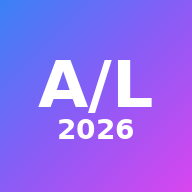
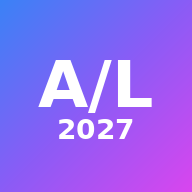
Add files via upload

Changed region(s): [[0.5938, 0.5938, 0.7188, 0.75]]

diff --git a/index.html b/index.html
@@ -5,8 +5,8 @@
 <meta name="theme-color" content="#3b82f6">
 <meta name="viewport" content="width=device-width, initial-scale=1, viewport-fit=cover, interactive-widget=resizes-content">
 <link rel="manifest" href="manifest.webmanifest"><link rel="icon" href="icon-192.png"><link rel="apple-touch-icon" href="icon-192.png">
-<meta name="mobile-web-app-capable" content="yes"><meta name="apple-mobile-web-app-capable" content="yes"><meta name="apple-mobile-web-app-status-bar-style" content="black-translucent"><meta name="apple-mobile-web-app-title" content="A/L 2026">
-<title>A/L 2026 Dashboard</title>
+<meta name="mobile-web-app-capable" content="yes"><meta name="apple-mobile-web-app-capable" content="yes"><meta name="apple-mobile-web-app-status-bar-style" content="black-translucent"><meta name="apple-mobile-web-app-title" content="A/L 2027">
+<title>A/L 2027 Dashboard</title>
 <link href="https://fonts.googleapis.com/css2?family=Sora:wght@500;700;800&family=Inter:wght@400;500;600&family=Noto+Sans+Sinhala:wght@400;600&display=swap" rel="stylesheet">
 <script src="https://cdnjs.cloudflare.com/ajax/libs/Chart.js/4.4.1/chart.umd.min.js"></script>
 <script src="https://cdnjs.cloudflare.com/ajax/libs/html2canvas/1.4.1/html2canvas.min.js"></script>
@@ -176,10 +176,10 @@ section.fa>.g>.card:nth-child(even){animation-delay:-3.5s}
 *{-webkit-tap-highlight-color:transparent}html,body{overscroll-behavior-y:none}
 button,.pill,.tab,.tile,.item,.d{touch-action:manipulation;-webkit-user-select:none;user-select:none}
 body{padding-top:calc(var(--th) + env(safe-area-inset-top,0px));padding-bottom:calc(var(--bh) + 28px + env(safe-area-inset-bottom,0px))}
-body::after,nav,footer,.fl{display:none!important}
+body::after,nav,footer{display:none!important}
 body>section{display:none;padding:14px 14px 10px!important}body>section#hero{padding-top:10px!important}
 body>section.cur{display:block;animation:scr .28s both}@keyframes scr{from{opacity:0;transform:translateY(10px)}}
-.rv{opacity:1!important;transform:none!important}section.fa>.card,section.fa>.g>.card{animation:none!important}
+.rv{opacity:1!important;transform:none!important}section.fa>.card,section.fa>.g>.card{animation:none}
 @media(hover:none){.card:hover,.pill:hover,.tab:hover,.ghost:hover,.btn:hover{transform:none}}
 .btn:active,.ghost:active,.tab:active,.tile:active,.item:active,.d:active{transform:scale(.95)}
 #ab{position:fixed;top:0;left:0;right:0;z-index:40;display:flex;align-items:center;gap:8px;padding:calc(8px + env(safe-area-inset-top,0px)) 14px 8px;background:color-mix(in srgb,var(--bg) 80%,transparent);backdrop-filter:blur(18px);-webkit-backdrop-filter:blur(18px);border-bottom:1px solid var(--line)}
@@ -195,10 +195,37 @@ body>section.cur{display:block;animation:scr .28s both}@keyframes scr{from{opaci
 @keyframes up{from{transform:translateY(100%)}}.sh .gr{display:block;width:44px;height:5px;border-radius:9px;background:var(--line);margin:0 auto 14px}.sh h3{margin:4px 0 12px}
 #toast{bottom:calc(var(--bh) + 28px + env(safe-area-inset-bottom,0px))}
 .chat{height:calc(100dvh - 250px - env(safe-area-inset-top,0px) - env(safe-area-inset-bottom,0px));min-height:360px}
+
+/* ===== v2: compact + animations + palette ===== */
+.card{padding:14px;border-radius:20px}.sb{padding:10px 6px}.val{font-size:1.25rem}.lbl{font-size:.62rem}.ch{height:170px}
+.fr{width:180px;height:180px}.fr>div{width:150px;height:150px}
+.g3{grid-template-columns:repeat(3,1fr)!important;gap:8px}#hero .fc{padding:10px 4px}#hero .fc .em{font-size:1.4rem}#hero .fc .val{font-size:1.1rem}#hero .fc .lbl{font-size:.55rem}
+.cd{gap:8px;margin:14px 0 6px}.cd div{flex:1;min-width:0;padding:8px 4px}.cd b{font-size:1.25rem}
+.ph{width:min(180px,48vw)}.hp{padding:8px}.o{width:38px;height:38px;font-size:1.1rem;border-radius:12px}
+.hin{gap:12px}#hero h1{font-size:clamp(1.8rem,8.5vw,2.6rem)}.typ{margin:8px 0 14px}h2{font-size:1.4rem}.sub{margin:4px 0 14px;font-size:.9rem}
+.im{width:66px;height:66px;font-size:2.1rem}.tgs{grid-template-columns:repeat(auto-fill,minmax(150px,1fr))}
+.sk{width:56px!important;height:56px!important;font-size:1.9rem!important}.dc{padding:12px 8px}.tile{padding:10px 4px}
+textarea{width:100%;background:var(--inp);color:var(--text);border:1px solid var(--line);border-radius:12px;padding:11px 12px;font:inherit;font-size:16px;resize:vertical;margin-bottom:10px}
+input[type=color]{height:38px;border:1px solid var(--line);border-radius:10px;background:var(--inp);padding:2px;width:56px}
+.dn b{text-decoration:line-through;color:var(--mute)}.nt [contenteditable]{outline:none}.nt .q{margin-top:4px}
+#picB{position:absolute;right:2%;bottom:2%;z-index:4;width:42px;height:42px;background:var(--card)}
+.pw{display:flex;flex-wrap:wrap;gap:8px}.pal{width:44px;height:44px;border-radius:50%;border:3px solid transparent;cursor:pointer;padding:0}.pal.on{border-color:var(--text)}
+.gb{width:42px;height:42px;border-radius:12px;border:1px solid var(--line);background:var(--card);color:var(--text);font:700 .8rem Sora;cursor:pointer;padding:0}.gb.on{border-color:var(--blue);box-shadow:0 0 0 2px var(--blue)}
+body::before{inset:-15%;animation:aur 22s ease-in-out infinite alternate}@keyframes aur{to{transform:translate(6%,4%) rotate(8deg) scale(1.1)}}
+#bgfx{position:fixed;inset:0;overflow:hidden;pointer-events:none;z-index:-1}
+#bgfx span{position:absolute;bottom:-80px;font-size:var(--s);opacity:0;animation:bgf var(--d) linear infinite;animation-delay:var(--dl)}
+#bgfx span:empty{width:calc(var(--s)*16);height:calc(var(--s)*16);border-radius:50%;background:radial-gradient(circle at 30% 30%,var(--oc,var(--pink)),transparent 70%)}
+#bgfx span:nth-child(3n+1):empty{--oc:var(--blue)}#bgfx span:nth-child(3n+2):empty{--oc:var(--orange)}
+@keyframes bgf{0%{transform:translate(0,0) rotate(0);opacity:0}10%,90%{opacity:.4}100%{transform:translate(var(--dx),-115vh) rotate(40deg);opacity:0}}
+.ent{animation:cin .5s cubic-bezier(.2,.8,.2,1) calc(var(--n,0)*55ms) both!important}@keyframes cin{from{opacity:0;transform:translateY(22px) scale(.97)}}
+.btn{position:relative;overflow:hidden}.btn::after{content:"";position:absolute;inset:0;background:linear-gradient(105deg,transparent 40%,rgba(255,255,255,.35) 50%,transparent 60%);transform:translateX(-120%);animation:shn 3.5s ease-in-out infinite}@keyframes shn{60%,100%{transform:translateX(120%)}}
+#bn button.on i{animation:bnb .5s}@keyframes bnb{40%{transform:translateY(-8px) scale(1.25)}}
+.bf{position:fixed;pointer-events:none;z-index:99;font-size:1.2rem;animation:cf 1s ease-out forwards}
+body.noanim *,body.noanim *::before,body.noanim *::after{animation:none!important}body.noanim #bgfx,body.noanim .fl{display:none}
 </style>
 </head>
 <body>
-<nav><div class="logo">A/L<span>.2026</span></div><div class="pills" id="navl"></div><button class="pill" id="theme" aria-label="Switch theme">🌙</button></nav>
+<nav><div class="logo">A/L<span>.2027</span></div><div class="pills" id="navl"></div><button class="pill" id="theme" aria-label="Switch theme">🌙</button></nav>
 
 <section id="hero"><div class="blob b1"></div><div class="blob b2"></div><div class="blob b3"></div>
 <div class="hin"><div class="hl">
@@ -309,6 +336,10 @@ body>section.cur{display:block;animation:scr .28s both}@keyframes scr{from{opaci
 
 <section id="roadmap" class="rv"><h2>🧭 Roadmap to AI science</h2><p class="sub">Tap a stage to open it.</p><div class="tl" id="tl"></div></section>
 
+<section id="notes" class="rv"><h2>🗒 Notes & to-do</h2><p class="sub">Liyaganna one ewa methana liyanna. Offline wath wada karanawa.</p>
+<div class="card"><input type="text" id="ntT" placeholder="Title / task…" style="margin-bottom:10px"><textarea id="ntB" rows="3" placeholder="Details (optional)"></textarea>
+<div class="row r2"><select id="ntK"><option value="note">📝 Note</option><option value="todo">☑ To-do</option></select><select id="ntS"></select></div><button class="btn full" id="ntAdd">Add</button></div>
+<div class="row r2" style="margin:12px 0 8px"><input type="text" id="ntQ" placeholder="🔍 Search"><select id="ntF"></select></div><div id="ntL"></div></section>
 <section id="dream" class="rv"><h2>🌠 Dream board</h2><p class="sub">The life I'm building. Tap a dream when I've won it 🎉</p>
 <div class="card db" id="db"><div class="gl gla"></div><div class="gl glb"></div><div class="fx" id="fx"></div>
 <div class="hd"><span class="st1">✨</span><span class="mi">MIND IT!</span><span class="st2">💫</span></div><div class="dq" id="dq"></div>
@@ -319,7 +350,14 @@ body>section.cur{display:block;animation:scr .28s both}@keyframes scr{from{opaci
 <header id="ab"><h1><span id="abI">🏠</span><span id="abT">A/L.2026</span><span id="net" title="online"></span></h1><button class="ib" id="abA" aria-label="Study AI">🤖</button><button class="ib" id="abTh" aria-label="Theme">🌓</button><button class="ib" id="abS" aria-label="Settings">⚙</button></header>
 <div id="bn"><button data-go="hero"><i>🏠</i>Home</button><button data-go="study"><i>📚</i>Study</button><button data-go="discipline"><i>✅</i>Habits</button><button data-go="focus"><i>⏱</i>Focus</button><button id="bnMore"><i>☰</i>More</button></div>
 <div class="sh" id="moreSh"><div><span class="gr"></span><h3>All sections</h3><div class="tiles" id="moreG"></div></div></div>
-<div class="sh" id="setSh"><div><span class="gr"></span><h3>⚙ Settings</h3>
+<div class="sh" id="setSh"><div><span class="gr"></span><h3>⚙ Settings</h3><div class="sg" style="margin-top:0">🎨 Colour palette</div><div class="pw" id="palG"></div>
+<div class="li" style="margin-top:10px;align-items:center"><span class="lbl" style="margin:0">Custom</span><input type="color" id="pc1" value="#3b82f6"><input type="color" id="pc2" value="#d946ef"></div>
+<div class="sg">🖼 Home picture</div><button class="ghost sm" id="picS" style="width:100%">Change picture</button><input type="file" id="picF" accept="image/*" hidden>
+<div class="sg">📲 App icon</div><div class="li" style="align-items:center"><img id="icP" width="60" height="60" style="border-radius:16px" alt=""><div class="pw" id="icG" style="flex:1"></div></div>
+<p class="lbl" style="text-transform:none">Icon eka wenas wenne Home screen ekata aluthen Add karanakota witharai.</p>
+<div class="sg">✨ Animations</div><button class="ghost sm" id="anB" style="width:100%"></button>
+<div class="sg">🤖 Study AI</div>
+
 <label class="lbl">Gemini API key</label><input type="password" id="gKey" placeholder="Paste your key here" autocomplete="off">
 <label class="lbl" style="margin-top:10px">Model</label><input type="text" id="gModel" placeholder="gemini-flash-latest">
 <button class="btn full" id="gSave">Save AI settings</button>
@@ -686,14 +724,14 @@ $('#msF').onchange=msDraw;
 $('#msL').addEventListener('click',e=>{const b=e.target.closest('button');if(!b)return;if(b.dataset.md)mss=mss.filter(m=>m.id!==b.dataset.md);else if(b.dataset.mr){const m=mss.find(x=>x.id===b.dataset.mr);m.r=!m.r}else return;store.set('mist',mss);msDraw()});
 
 /* ===== NAVIGATION (scroll between sections) ===== */
-const NP=[['hero','🏠','Home','#06b6d4'],['study','📚','Study log','#10b981'],['marks','📈','Marks','#ec4899'],['discipline','✅','Habits','#22c55e'],['plan','🗓','90 days','#3b82f6'],['mist','🧠','Mistakes','#ef4444'],['planner','📅','Planner','#eab308'],['papers','📝','Papers','#8b5cf6'],['focus','⏱','Focus','#f97316'],['targets','🎯','Targets','#d946ef'],['ai','🤖','Study AI','#6366f1'],['roadmap','🧭','Roadmap','#14b8a6'],['dream','🌠','Dreams','#f59e0b']];
+const NP=[['hero','🏠','Home','#06b6d4'],['study','📚','Study log','#10b981'],['marks','📈','Marks','#ec4899'],['discipline','✅','Habits','#22c55e'],['plan','🗓','90 days','#3b82f6'],['mist','🧠','Mistakes','#ef4444'],['planner','📅','Planner','#eab308'],['notes','🗒','Notes','#f59e0b'],['papers','📝','Papers','#8b5cf6'],['focus','⏱','Focus','#f97316'],['targets','🎯','Targets','#d946ef'],['ai','🤖','Study AI','#6366f1'],['roadmap','🧭','Roadmap','#14b8a6'],['dream','🌠','Dreams','#f59e0b']];
 $('#navl').innerHTML=NP.map(x=>`<a class="pill" href="#${x[0]}" data-go="${x[0]}">${x[1]} ${x[2]}</a>`).join('');
 $('.hl').insertAdjacentHTML('beforeend','<div class="arena" id="arena"></div>');
 $('.hl').insertAdjacentHTML('beforeend','<div class="sg">🔥 Discipline</div><div class="card" id="dcCard"></div>');
 function go(id,push=true){const el=document.getElementById(id);if(!el||!el.matches('body>section'))return;
  document.querySelectorAll('body>section.cur').forEach(s=>s.classList.remove('cur'));el.classList.add('cur','v');window.scrollTo(0,0);mark(id);setBar(id);closeSheets();
  if(push&&!(history.state&&history.state.s===id))history.pushState({s:id},'');
- requestAnimationFrame(()=>Object.values(ch).forEach(c=>{try{c.resize()}catch(e){}}))}
+ stag(el);requestAnimationFrame(()=>Object.values(ch).forEach(c=>{try{c.resize()}catch(e){}}))}
 document.addEventListener('click',e=>{const g=e.target.closest('[data-go]'),a=e.target.closest('a[href^="#"]'),id=g?g.dataset.go:(a&&a.getAttribute('href').slice(1));if(id&&document.getElementById(id)){e.preventDefault();go(id)}});
 function mark(id){document.querySelectorAll('#navl .pill').forEach(b=>{const on=b.dataset.go===id;b.classList.toggle('on',on);if(on){const c=$('#navl');c.scrollTo({left:b.offsetLeft-c.clientWidth/2+b.offsetWidth/2,behavior:'smooth'})}})}
 const spy=new IntersectionObserver(es=>es.forEach(e=>{if(e.isIntersecting)mark(e.target.id)}),{rootMargin:'-40% 0px -55% 0px'});
@@ -740,7 +778,7 @@ document.querySelectorAll('.rv').forEach(el=>io.observe(el));
 const MAIN=['hero','study','discipline','focus'];
 function closeSheets(){document.querySelectorAll('.sh').forEach(s=>s.classList.remove('s'))}
 function openSh(id){closeSheets();$('#'+id).classList.add('s')}
-function setBar(id){const x=NP.find(n=>n[0]===id);$('#abT').textContent=id==='hero'?'A/L.2026':x[2];$('#abI').textContent=x[1];
+function setBar(id){const x=NP.find(n=>n[0]===id);$('#abT').textContent=id==='hero'?'A/L.2027':x[2];$('#abI').textContent=x[1];
  document.querySelectorAll('#bn button').forEach(b=>b.classList.toggle('on',b.dataset.go===id||(b.id==='bnMore'&&!MAIN.includes(id))))}
 $('#moreG').innerHTML=NP.filter(n=>!MAIN.includes(n[0])).map(n=>`<button class="tile" data-go="${n[0]}"><span class="ic" style="--c:${n[3]};width:50px;height:50px;font-size:1.6rem">${n[1]}</span>${n[2]}</button>`).join('');
 $('#bnMore').onclick=()=>openSh('moreSh');$('#abA').onclick=()=>go('ai');$('#abTh').onclick=()=>$('#theme').click();
@@ -755,6 +793,47 @@ const net=()=>$('#net').classList.toggle('off',!navigator.onLine);addEventListen
 let dip;addEventListener('beforeinstallprompt',e=>{e.preventDefault();dip=e;$('#inst').style.display='block'});$('#inst').onclick=()=>{dip&&dip.prompt()};
 addEventListener('popstate',e=>go((e.state&&e.state.s)||'hero',false));
 if('serviceWorker' in navigator&&location.protocol.startsWith('http'))navigator.serviceWorker.register('sw.js').catch(()=>{});
+
+/* ===== v2 JS ===== */
+function stag(el){el.querySelectorAll(':scope>.card,:scope>.g>.card,:scope>.tiles>*,:scope .tc,:scope .dw,:scope>#ntL>*').forEach((c,i)=>{c.style.setProperty('--n',Math.min(i,12));c.classList.remove('ent');void c.offsetWidth;c.classList.add('ent')})}
+const PAL=[['Ocean','#3b82f6','#8b5cf6','#d946ef','#f97316'],['Sunset','#f97316','#ef4444','#ec4899','#eab308'],['Forest','#10b981','#14b8a6','#22c55e','#84cc16'],['Royal','#6366f1','#8b5cf6','#a855f7','#06b6d4'],['Rose','#ec4899','#f43f5e','#d946ef','#fb923c'],['Cyber','#06b6d4','#22d3ee','#a3e635','#f0abfc'],['Gold','#eab308','#f59e0b','#f97316','#ef4444']];
+const rgba=(h,a)=>{const n=parseInt(h.slice(1),16);return `rgba(${n>>16},${n>>8&255},${n&255},${a})`};
+function curPal(){const v=store.get('pal',0);return typeof v==='number'?PAL[v].slice(1):v}
+function mkIcon(n,g,p){const c=document.createElement('canvas');c.width=c.height=n;const x=c.getContext('2d'),gr=x.createLinearGradient(0,0,n,n);gr.addColorStop(0,p[0]);gr.addColorStop(.5,p[1]);gr.addColorStop(1,p[2]);x.fillStyle=gr;x.fillRect(0,0,n,n);x.fillStyle='#fff';x.textAlign='center';x.textBaseline='middle';
+ if(g==='AL'){x.font='800 '+n*.34+'px Sora,Arial,sans-serif';x.fillText('A/L',n/2,n*.44);x.font='700 '+n*.15+'px Sora,Arial,sans-serif';x.fillText('2027',n/2,n*.68)}else{x.font=n*.52+'px "Apple Color Emoji","Noto Color Emoji",sans-serif';x.fillText(g,n/2,n*.54)}return c.toDataURL('image/png')}
+function setIcon(){const g=store.get('icg','AL'),p=curPal(),a=mkIcon(192,g,p);$('#icP').src=a;if(!store.get('icg',0))return;
+ document.querySelectorAll('link[rel=icon],link[rel=apple-touch-icon]').forEach(l=>l.href=a);const b=new URL('./',location.href).href,z=mkIcon(512,g,p);
+ const m={name:'A/L 2027 Dashboard',short_name:'A/L 2027',start_url:b,scope:b,display:'standalone',orientation:'portrait',background_color:'#080b17',theme_color:p[0],icons:[{src:a,sizes:'192x192',type:'image/png'},{src:z,sizes:'512x512',type:'image/png',purpose:'any'},{src:z,sizes:'512x512',type:'image/png',purpose:'maskable'}]};
+ document.querySelector('link[rel=manifest]').href=URL.createObjectURL(new Blob([JSON.stringify(m)],{type:'application/manifest+json'}))}
+function applyPal(){const p=curPal();['--blue','--purple','--pink','--orange'].forEach((v,i)=>root.style.setProperty(v,p[i]));root.style.setProperty('--g1',rgba(p[2],.22));root.style.setProperty('--g2',rgba(p[0],.25));
+ document.querySelector('meta[name=theme-color]').content=p[0];const v=store.get('pal',0);document.querySelectorAll('.pal').forEach((b,i)=>b.classList.toggle('on',v===i));setIcon();if(window.ready&&typeof refreshAll==='function')refreshAll()}
+$('#palG').innerHTML=PAL.map((p,i)=>`<button class="pal" data-i="${i}" aria-label="${p[0]}" style="background:linear-gradient(135deg,${p[1]},${p[2]},${p[3]})"></button>`).join('');
+$('#palG').onclick=e=>{const b=e.target.closest('.pal');if(b){store.set('pal',+b.dataset.i);applyPal()}};
+['pc1','pc2'].forEach(i=>$('#'+i).onchange=()=>{const a=$('#pc1').value,b=$('#pc2').value;store.set('pal',[a,a,b,b]);applyPal()});
+$('#icG').innerHTML=['AL','🎓','📚','🧠','🚀','⚡','🔥','🎯'].map(g=>`<button class="gb" data-g="${g}">${g==='AL'?'A/L':g}</button>`).join('');
+$('#icG').onclick=e=>{const b=e.target.closest('.gb');if(!b)return;store.set('icg',b.dataset.g);setIcon();document.querySelectorAll('.gb').forEach(x=>x.classList.toggle('on',x===b));toast('Icon set 📲 Home screen ekata aluthen add karanna')};
+const gi=store.get('icg','AL');document.querySelectorAll('.gb').forEach(x=>x.classList.toggle('on',x.dataset.g===gi));
+function anSet(){const on=store.get('anim',true);document.body.classList.toggle('noanim',!on);$('#anB').textContent='Animations: '+(on?'ON ✨':'OFF')}
+$('#anB').onclick=()=>{store.set('anim',!store.get('anim',true));anSet()};anSet();
+$('.ph').insertAdjacentHTML('beforeend','<button class="ib" id="picB" aria-label="Change picture">📷</button>');
+const hp=store.get('heroPic','');if(hp)$('.pi img').src=hp;
+$('#picB').onclick=$('#picS').onclick=()=>$('#picF').click();
+$('#picF').onchange=e=>{const f=e.target.files[0];if(!f)return;const im=new Image,u=URL.createObjectURL(f);im.onload=()=>{const c=document.createElement('canvas'),n=480,m=Math.min(im.width,im.height);c.width=c.height=n;c.getContext('2d').drawImage(im,(im.width-m)/2,(im.height-m)/2,m,m,0,0,n,n);const d=c.toDataURL('image/jpeg',.85);store.set('heroPic',d);$('.pi img').src=d;URL.revokeObjectURL(u);closeSheets();toast('Picture updated 📸')};im.src=u};
+(function(){const em=[...'✨⭐📚💡🎯🔥🧠🚀'],b=document.createElement('div');b.id='bgfx';b.setAttribute('aria-hidden','true');
+ b.innerHTML=Array.from({length:16},(_,i)=>`<span style="left:${(i*6.2+Math.random()*4).toFixed(1)}%;--s:${(1+Math.random()*1.4).toFixed(2)}rem;--d:${(14+Math.random()*14).toFixed(1)}s;--dl:${(-Math.random()*20).toFixed(1)}s;--dx:${(Math.random()*80-40).toFixed(0)}px">${i%3?'':em[i%em.length]}</span>`).join('');document.body.prepend(b)})();
+function burst(x,y){if(document.body.classList.contains('noanim'))return;[...'🎉✨⭐💫🎊🔥✨'].forEach(t=>{const e=document.createElement('i');e.className='bf';e.textContent=t;e.style.cssText=`left:${x}px;top:${y}px;--x:${Math.random()*180-90}px;--y:${-40-Math.random()*110}px`;document.body.appendChild(e);setTimeout(()=>e.remove(),1000)})}
+document.addEventListener('click',e=>{if(e.target.closest('.btn,.item'))burst(e.clientX,e.clientY)});
+/* notes */
+const NK='notes_v1',NT=['General','Physics','Pure','Applied','Chemistry','Personal'];let nts=store.get(NK,[]);const nsv=()=>store.set(NK,nts);
+$('#ntS').innerHTML=NT.map(t=>`<option>${t}</option>`).join('');$('#ntF').innerHTML=['All',...NT].map(t=>`<option>${t}</option>`).join('');
+function ntDraw(){const q=$('#ntQ').value.toLowerCase(),f=$('#ntF').value;
+ $('#ntL').innerHTML=nts.filter(n=>(f==='All'||n.s===f)&&(n.t+n.b).toLowerCase().includes(q)).sort((a,b)=>b.p-a.p||b.id-a.id).map(n=>`<div class="card nt${n.d?' dn':''}" data-id="${n.id}" style="margin-bottom:10px;padding:12px"><div style="display:flex;gap:10px;align-items:flex-start">${n.k==='todo'?`<div class="box" data-a="tg" style="--c:var(--green);cursor:pointer${n.d?';background:var(--green);color:#fff':''}">✓</div>`:'<span>📝</span>'}<div style="flex:1;min-width:0"><b contenteditable data-a="et" spellcheck="false">${esc(n.t)}</b><div contenteditable data-a="eb" class="q" style="white-space:pre-wrap">${esc(n.b)}</div><small class="lbl" style="margin:6px 0 0">${n.s} · ${new Date(n.id).toLocaleDateString()}</small></div><button class="ghost sm" data-a="pn" style="padding:6px 10px">${n.p?'📌':'📍'}</button><button class="ghost sm del" data-a="dl" style="padding:6px 10px">✕</button></div></div>`).join('')||'<span class="lbl">Nothing here yet</span>'}
+$('#ntAdd').onclick=()=>{const t=$('#ntT').value.trim();if(!t)return toast('Title ekak liyanna');nts.push({id:Date.now(),t,b:$('#ntB').value.trim(),k:$('#ntK').value,s:$('#ntS').value,p:0,d:0});nsv();$('#ntT').value=$('#ntB').value='';ntDraw();toast('Saved 🗒')};
+$('#ntQ').oninput=$('#ntF').onchange=ntDraw;
+$('#ntL').addEventListener('click',e=>{const a=e.target.closest('[data-a]'),c=e.target.closest('.nt');if(!a||!c)return;const n=nts.find(x=>x.id==c.dataset.id),k=a.dataset.a;
+ if(k==='tg')n.d=n.d?0:1;else if(k==='pn')n.p=n.p?0:1;else if(k==='dl'){if(!confirm('Delete this?'))return;nts=nts.filter(x=>x!==n)}else return;nsv();ntDraw()});
+$('#ntL').addEventListener('focusout',e=>{const a=e.target.dataset.a,c=e.target.closest('.nt');if(!c||(a!=='et'&&a!=='eb'))return;const n=nts.find(x=>x.id==c.dataset.id);if(n){n[a==='et'?'t':'b']=e.target.textContent.trim();nsv()}});
+ntDraw();applyPal();
 history.replaceState({s:'hero'},'');go('hero',false);
 </script>
 </body>

diff --git a/sw.js b/sw.js
@@ -1,4 +1,4 @@
-const V='al-v1',CORE=['./','index.html','manifest.webmanifest','icon-192.png','icon-512.png'],EXT=["https://fonts.googleapis.com/css2?family=Sora:wght@500;700;800&family=Inter:wght@400;500;600&family=Noto+Sans+Sinhala:wght@400;600&display=swap", "https://cdnjs.cloudflare.com/ajax/libs/Chart.js/4.4.1/chart.umd.min.js", "https://cdnjs.cloudflare.com/ajax/libs/html2canvas/1.4.1/html2canvas.min.js"];
+const V='al-v2',CORE=['./','index.html','manifest.webmanifest','icon-192.png','icon-512.png'],EXT=["https://fonts.googleapis.com/css2?family=Sora:wght@500;700;800&family=Inter:wght@400;500;600&family=Noto+Sans+Sinhala:wght@400;600&display=swap", "https://cdnjs.cloudflare.com/ajax/libs/Chart.js/4.4.1/chart.umd.min.js", "https://cdnjs.cloudflare.com/ajax/libs/html2canvas/1.4.1/html2canvas.min.js"];
 self.addEventListener('install',e=>{e.waitUntil(caches.open(V).then(c=>Promise.all([...CORE.map(u=>c.add(u).catch(()=>{})),...EXT.map(u=>fetch(u,{mode:'no-cors'}).then(r=>c.put(u,r)).catch(()=>{}))])).then(()=>self.skipWaiting()))});
 self.addEventListener('activate',e=>{e.waitUntil(caches.keys().then(k=>Promise.all(k.filter(x=>x!==V).map(x=>caches.delete(x)))).then(()=>self.clients.claim()))});
 self.addEventListener('fetch',e=>{const r=e.request,u=new URL(r.url);if(r.method!=='GET'||u.hostname==='generativelanguage.googleapis.com')return;
